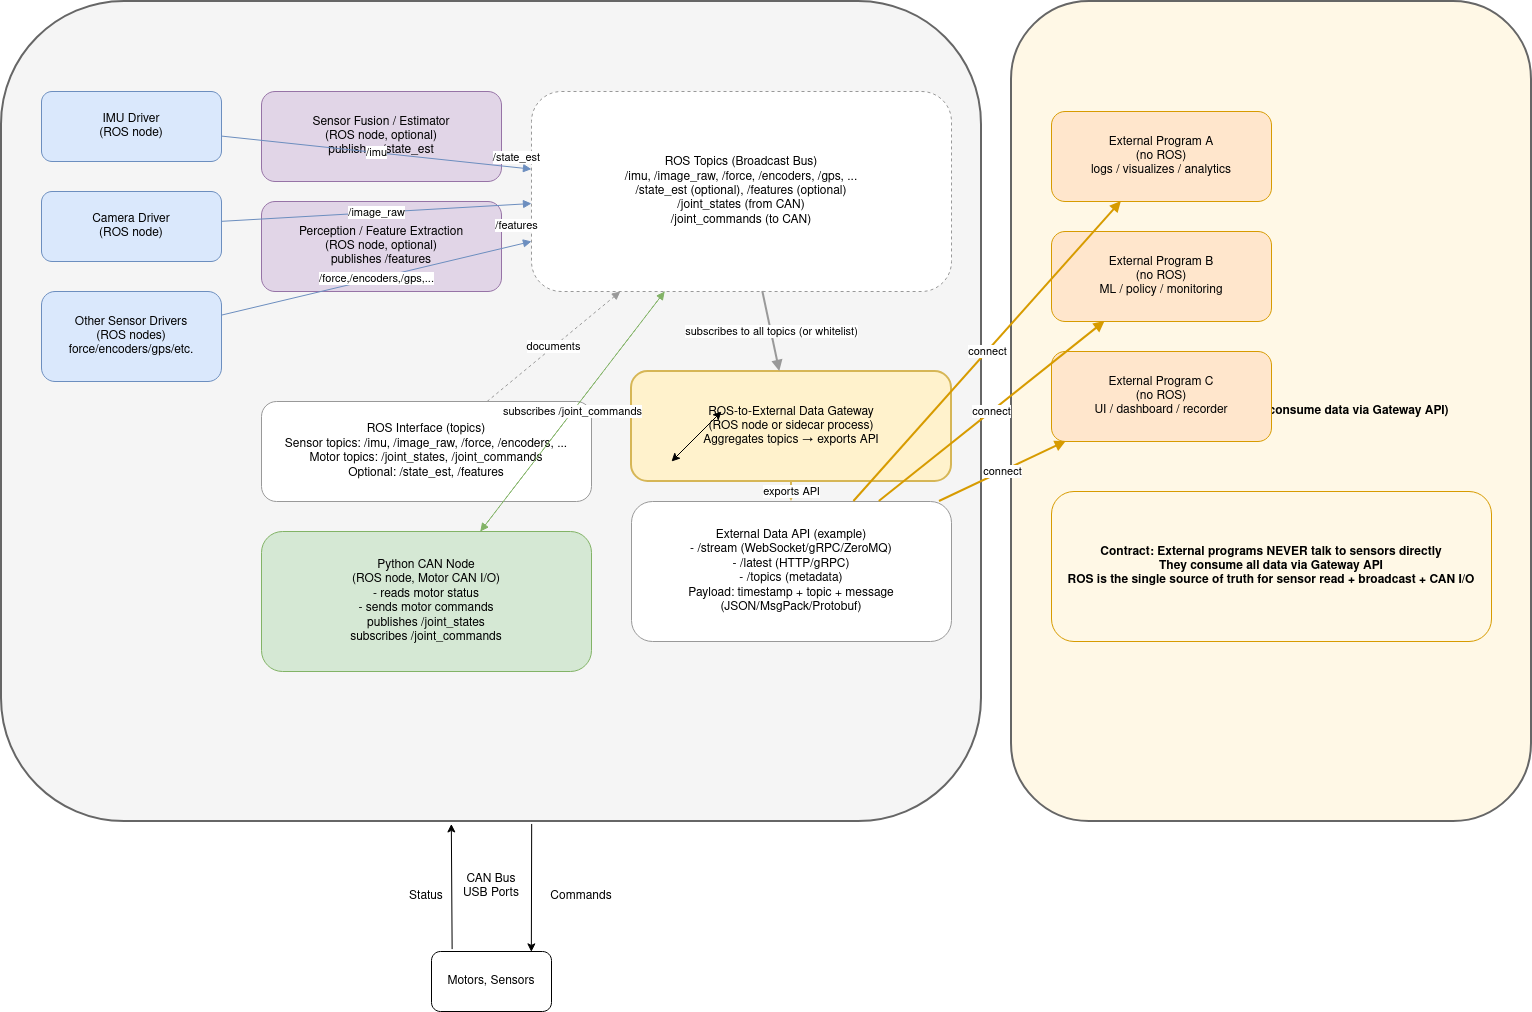
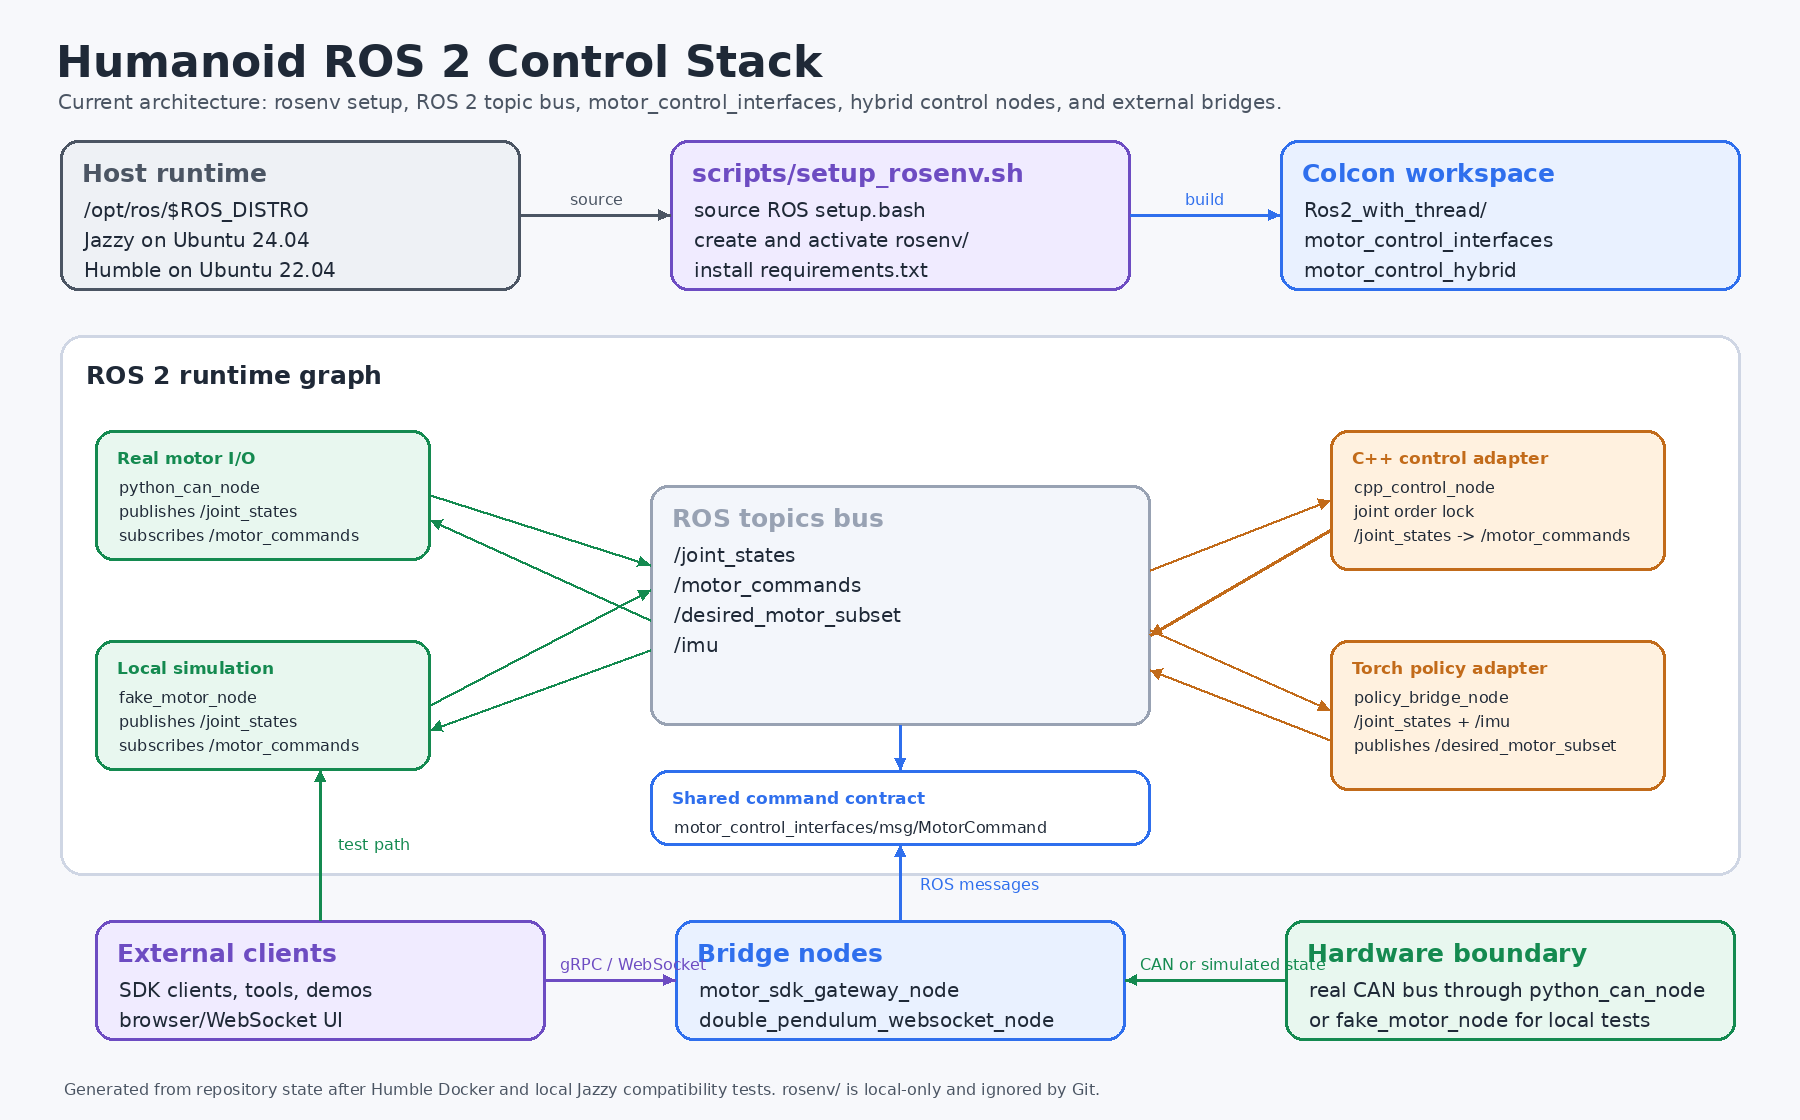
Update architecture README and system diagram

diff --git a/README.md b/README.md
@@ -1,164 +1,241 @@
-# System Structure & Usage Guide
+# Humanoid ROS 2 Control Stack
 
-This repository is organized around a single principle:
+This repository contains the ROS 2 motor-control workspace and supporting runtime setup for the embedded humanoid stack.
 
-> **ROS 2 is the single source of truth for sensing + broadcasting + CAN I/O.**  
-> Anything outside ROS should consume data through a clearly defined interface, not by directly touching sensors.
+The current architecture keeps ROS 2 as the runtime bus for motor state, motor commands, simulated hardware, policy output, and SDK/UI bridges. Python dependencies live in a local `rosenv/` virtual environment, which is ignored by Git and recreated from `scripts/setup_rosenv.sh`.
 
----
-
-## Architecture Diagram
+## Architecture
 
 ![System Structure](system.struct.png)
 
-### About the diagram file(s)
+## Supported ROS 2 Environments
 
-- `system.struct.png` is the **rendered image** used by this README.
-- `System Structurepng.drawio` is the **editable source** (diagrams.net / draw.io).
----
+The code has been built and smoke-tested with:
 
-## What the diagram means
+- ROS 2 Jazzy on Ubuntu 24.04 / Python 3.12
+- ROS 2 Humble on Ubuntu 22.04 / Python 3.10, tested in Docker with `fishros2/ros:humble-desktop-full`
 
-### ROS 2 responsibilities (inside ROS)
-ROS 2 owns:
-- Reading sensors (IMU, camera, other drivers)
-- Broadcasting all data through ROS topics (the “data bus”)
-- Performing **motor CAN I/O** (send commands / receive motor states)
+Use the ROS distribution that matches the OS. Do not copy `rosenv/` between Ubuntu or ROS versions; recreate it locally.
 
-### Outside ROS responsibilities (external programs)
-External programs should:
-- **Not** access sensors directly
-- Consume all data via an exported interface (e.g., a gateway API) or by linking a provided SDK
-- Implement higher-level logic (logging, UI, analytics, ML, policies, etc.)
+## Repository Layout
 
----
+```text
+.
+├── Ros2_with_thread/
+│   ├── motor_control_interfaces/
+│   │   └── msg/MotorCommand.msg
+│   └── motor_control_hybrid/
+│       ├── launch/hybrid_control.launch.py
+│       ├── config/motors.yaml
+│       ├── config/policy_bridge_config.json
+│       ├── motor_control_hybrid/
+│       │   ├── python_can_node.py
+│       │   ├── fake_motor_node.py
+│       │   ├── motor_sdk_gateway_node.py
+│       │   ├── double_pendulum_websocket_node.py
+│       │   └── policy_bridge_node.py
+│       ├── src/cpp_control_node.cpp
+│       └── requirements.txt
+├── Interfaces/control_core/
+├── scripts/setup_rosenv.sh
+└── system.struct.png
+```
 
-## Core components
+## Runtime Model
 
-### 1) Sensor drivers (ROS nodes)
-Examples:
-- IMU driver → publishes `/imu`
-- Camera driver → publishes `/image_raw`
-- Other sensors → publishes `/force`, `/encoders`, `/gps`, ...
+### ROS Topics
 
-### 2) Optional processing nodes (ROS nodes)
-- Sensor fusion / estimator (optional) → publishes `/state_est`
-- Perception / feature extraction (optional) → publishes `/features`
+- `/joint_states` (`sensor_msgs/JointState`): motor state from the real CAN node or fake motor node.
+- `/motor_commands` (`motor_control_interfaces/MotorCommand`): final commands sent to the motor layer.
+- `/desired_motor_subset` (`motor_control_interfaces/MotorCommand`): policy bridge output consumed by the C++ control node.
+- `/imu` (`sensor_msgs/Imu`): optional policy input.
 
-### 3) ROS Topics Broadcast Bus (data bus)
-Typical topics:
-- `/imu`, `/image_raw`, `/force`, `/encoders`, `/gps`, ...
-- `/state_est` (optional), `/features` (optional)
-- `/joint_states` (motor state from CAN)
-- `/motor_commands` (motor commands to CAN)
+### Core Nodes
 
-### 4) Python CAN Node (ROS node, motor CAN I/O)
-- **The only component that actually sends CAN frames**
-- Publishes: `/joint_states` (`sensor_msgs/JointState`)
-- Subscribes: `/motor_commands` (`motor_control_interfaces/MotorCommand`)
-- Internals:
-  - RX loop reads status frames and updates latest motor state
-  - TX loop consumes a command queue and calls the motor driver to send CAN frames
+- `python_can_node`: real motor CAN I/O. Publishes `/joint_states` and consumes `/motor_commands`.
+- `fake_motor_node`: local simulation stand-in for CAN hardware. Useful for build and launch smoke tests.
+- `cpp_control_node`: C++ scheduler/control adapter. Consumes joint state and desired commands, then publishes `/motor_commands`.
+- `policy_bridge_node`: Torch policy adapter. Reads joint/IMU state and publishes a desired motor subset.
+- `motor_sdk_gateway_node`: gRPC bridge for external SDK clients.
+- `double_pendulum_websocket_node`: browser/WebSocket visualization and interaction bridge.
 
-### 5) Control node (ROS node, scheduler + bridge)
-- Subscribes: `/joint_states` (+ optional `/imu`, `/features`, etc.)
-- Produces motor commands and publishes `/motor_commands`
-- Recommended: keep “control algorithms” in a **non-ROS control core library**, and make this node a thin adapter.
+## Setup
 
-### 6) ROS-to-external interface (recommended for non-ROS clients)
-If external programs truly must not depend on ROS, add a thin “exporter” process/node:
-- subscribes to a whitelist of topics
-- exposes:
-  - `/stream` (WebSocket / gRPC / ZeroMQ)
-  - `/latest` (HTTP / gRPC)
-  - `/topics` (metadata)
+From the repository root:
 
----
-
-## Interface contracts
-
-### Motor state: `/joint_states`
-Type: `sensor_msgs/JointState`
-
-Index alignment rule:
-- `name[i]` aligns with `position[i]`, `velocity[i]`, `effort[i]`
-
-### Motor commands: `/motor_commands`
-Type: `motor_control_interfaces/MotorCommand`
-
-Index alignment rule:
-- `joint_name[i]` aligns with:
-  - `mode[i]`, `position[i]`, `velocity[i]`, `acceleration[i]`, `torque[i]`, `kp[i]`, `kd[i]`
-
-Mode supports:
-- **Broadcast**: `mode` length = 1 → applies to all joints in this message
-- **Per-joint**: `mode` length = N → each joint can use a different mode
-
----
-
-## Quick start (build & run)
-
-### Build
-In your ROS 2 workspace:
 ```bash
-source /opt/ros/humble/setup.bash
-colcon build --packages-select motor_control_interfaces
-source install/setup.bash
-colcon build --packages-select motor_control_hybrid
+# Jazzy / Ubuntu 24.04
+ROS_DISTRO=jazzy source scripts/setup_rosenv.sh
+
+# Humble / Ubuntu 22.04
+ROS_DISTRO=humble source scripts/setup_rosenv.sh
+```
+
+The setup script:
+
+- sources `/opt/ros/$ROS_DISTRO/setup.bash`
+- creates `rosenv/` if missing
+- activates `rosenv/`
+- installs `Ros2_with_thread/motor_control_hybrid/requirements.txt`
+- writes `rosenv/.requirements.stamp` so unchanged requirements are not reinstalled every run
+
+The requirements include both runtime packages and ROS Python build helpers needed when building from inside the venv:
+
+```text
+pyyaml
+typeguard
+empy==3.3.4
+lark
+catkin_pkg
+```
+
+`empy` is pinned to `3.3.4` for ROS 2 Humble `rosidl_adapter` compatibility. This pin also builds successfully on Jazzy.
+
+## Build
+
+```bash
+cd Ros2_with_thread
+colcon build --symlink-install
 source install/setup.bash
 ```
 
-### Run the motor CAN node (I/O)
+Both packages should appear after sourcing the workspace:
+
 ```bash
-source /opt/ros/humble/setup.bash
-source <your_ws>/install/setup.bash
-ros2 run motor_control_hybrid python_can_node
+ros2 pkg list | grep -E 'motor_control_(hybrid|interfaces)'
 ```
 
-### Run the control node (if used)
-```bash
-source /opt/ros/humble/setup.bash
-source <your_ws>/install/setup.bash
-ros2 run motor_control_hybrid cpp_control_node
+Expected:
+
+```text
+motor_control_hybrid
+motor_control_interfaces
 ```
 
----
+## Launch
 
-## Examples: publishing commands
+### Local Smoke Test Without CAN Hardware
 
-### Velocity (subset)
+```bash
+ros2 launch motor_control_hybrid hybrid_control.launch.py \
+  enable_fake_motor:=true \
+  enable_sdk_gateway:=false \
+  enable_websocket_ui:=false \
+  enable_cpp_control:=true \
+  enable_policy_bridge:=false
+```
+
+Expected startup messages include:
+
+```text
+Fake motor node started for joints: test_joint, test_joint2
+CppControlNode started
+Joint order locked from first /joint_states (2 joints).
+```
+
+### Real CAN Motor Control
+
+```bash
+ros2 launch motor_control_hybrid hybrid_control.launch.py \
+  enable_fake_motor:=false \
+  enable_cpp_control:=true \
+  enable_sdk_gateway:=true
+```
+
+Configure real motors in:
+
+```text
+Ros2_with_thread/motor_control_hybrid/config/motors.yaml
+```
+
+### Policy Bridge
+
+```bash
+ros2 launch motor_control_hybrid hybrid_control.launch.py \
+  enable_policy_bridge:=true \
+  rl_model_path:=/path/to/policy.pt
+```
+
+Policy bridge configuration:
+
+```text
+Ros2_with_thread/motor_control_hybrid/config/policy_bridge_config.json
+```
+
+## Motor Command Contract
+
+`motor_control_interfaces/msg/MotorCommand.msg`:
+
+```text
+std_msgs/Header header
+string[] joint_name
+uint8[] mode
+float64[] position
+float64[] velocity
+float64[] acceleration
+float64[] torque
+float64[] kp
+float64[] kd
+
+uint8 MODE_VELOCITY=0
+uint8 MODE_POSITION=1
+uint8 MODE_MOTION=2
+uint8 MODE_ENABLE=3
+uint8 MODE_DISABLE=4
+```
+
+Index alignment rule:
+
+- `joint_name[i]` aligns with `position[i]`, `velocity[i]`, `acceleration[i]`, `torque[i]`, `kp[i]`, and `kd[i]`.
+- `mode` may be length `1` for broadcast or length `N` for per-joint mode selection.
+
+## Command Examples
+
+Velocity command:
+
 ```bash
 ros2 topic pub -r 50 /motor_commands motor_control_interfaces/msg/MotorCommand \
 "{joint_name:['shoulder_pitch','wrist_roll'], mode:[0], velocity:[0.5,-0.2]}"
 ```
 
-### Position (position=0 is valid)
+Position command:
+
 ```bash
 ros2 topic pub -1 /motor_commands motor_control_interfaces/msg/MotorCommand \
 "{joint_name:['shoulder_pitch'], mode:[1], position:[0.0], velocity:[0.5], acceleration:[1.0]}"
 ```
 
-### Motion (kp/kd)
+Motion command:
+
 ```bash
 ros2 topic pub -r 200 /motor_commands motor_control_interfaces/msg/MotorCommand \
 "{joint_name:['elbow_pitch'], mode:[2], position:[0.3], velocity:[0.0], torque:[0.0], kp:[40.0], kd:[1.5]}"
 ```
 
-### Enable / Disable
+Enable:
+
 ```bash
 ros2 topic pub -1 /motor_commands motor_control_interfaces/msg/MotorCommand \
 "{joint_name:['shoulder_pitch','elbow_pitch'], mode:[3]}"
 ```
+
+Disable:
 
 ```bash
 ros2 topic pub -1 /motor_commands motor_control_interfaces/msg/MotorCommand \
 "{joint_name:['shoulder_pitch','elbow_pitch'], mode:[4]}"
 ```
 
----
+## Docker Humble Notes
 
-## Files referenced by this README
+The local Humble test used `fishros2/ros:humble-desktop-full`. That image needed `python3.10-venv` installed before `scripts/setup_rosenv.sh` could create `rosenv/`.
 
-- `README.md` — this document
-- `system.struct.png` — rendered architecture diagram used in README
-- `System Structurepng.drawio` — editable diagram source (draw.io / diagrams.net)
+If the image's ROS apt source has an expired key, disable that source for the temporary container and install `python3.10-venv` from Ubuntu Jammy repositories before testing.
+
+## Git Policy for `rosenv/`
+
+`rosenv/` is intentionally ignored and not committed. Recreate it with:
+
+```bash
+ROS_DISTRO=<humble|jazzy> source scripts/setup_rosenv.sh
+```